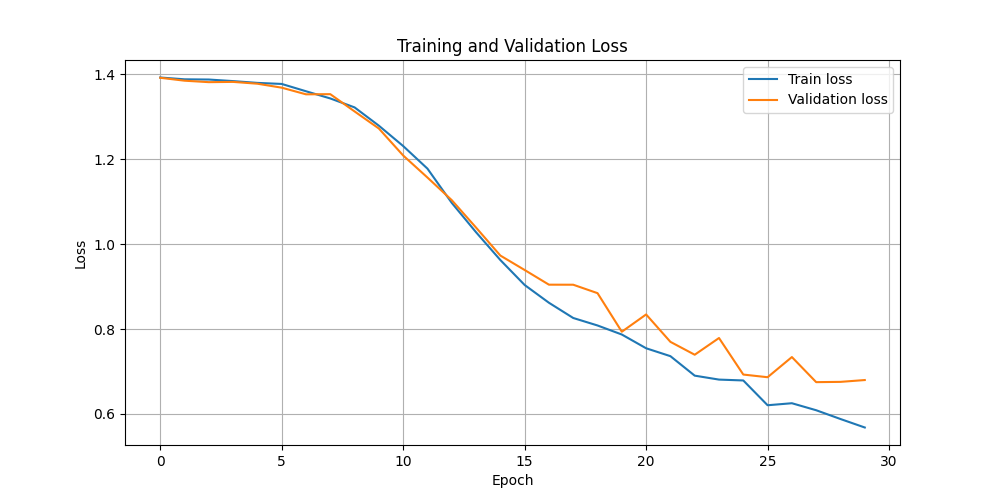
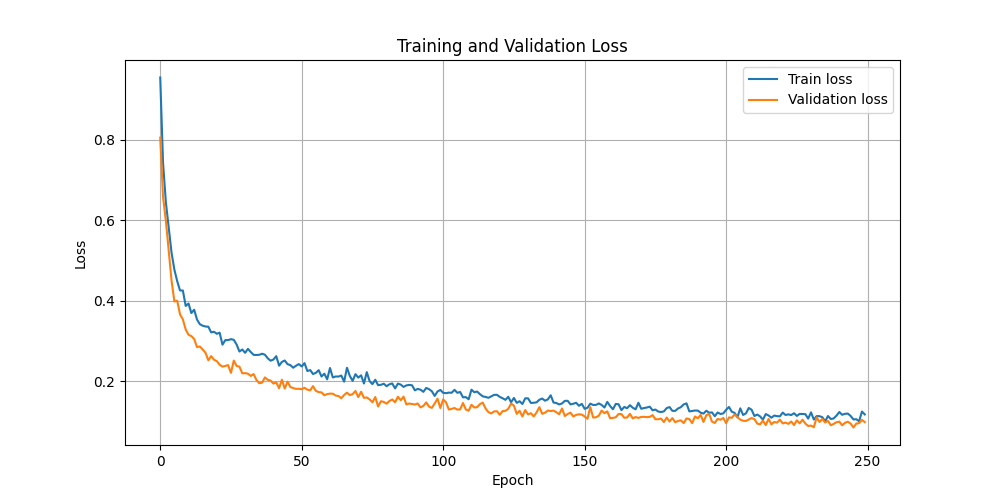
ensamble models completed

diff --git a/final/ensamble_models.py b/final/ensamble_models.py
@@ -4,6 +4,7 @@ from sklearn.metrics import accuracy_score, confusion_matrix
 from sklearn.ensemble import RandomForestClassifier
 from xgboost import XGBClassifier
 import numpy as np
+import time
 
 beed_file_path = 'BEED_Data.csv'
 beed_data = pd.read_csv(beed_file_path)
@@ -11,14 +12,25 @@ beed_data = pd.read_csv(beed_file_path)
 X = beed_data.iloc[:, :-1]
 y = beed_data.iloc[:, -1]
 
-X_temp, X_test, y_temp, y_test = train_test_split(
-    X, y, test_size=0.2, random_state=42, stratify=y
-)
-
-def random_forest_train():
-    global X_temp, y_temp
+def preprocess_data():
+    global X, y
+    X_temp, X_test, y_temp, y_test = train_test_split(
+        X, y, test_size=0.2, random_state=1, stratify=y
+    )
     sss = StratifiedShuffleSplit(n_splits=10, test_size=0.25, random_state=1)
-    model = RandomForestClassifier(n_estimators=100, random_state=1)
+    return sss, X_temp, X_test, y_temp, y_test
+
+def time_decorator(func):
+    def wrapper(*args):
+        start_time = time.perf_counter()
+        func(*args)
+        print(time.perf_counter() - start_time)
+    return wrapper
+
+
+@time_decorator
+def random_forest_train(sss, X_temp, X_test, y_temp, y_test):
+    model = RandomForestClassifier(n_estimators=400, max_depth=None, min_samples_leaf=1, min_samples_split=2, random_state=1)
     
     scores = cross_validate(model, X_temp, y_temp, cv=sss, n_jobs=6, scoring='accuracy')
     np_scores = np.array(scores['test_score'])
@@ -29,11 +41,11 @@ def random_forest_train():
     model.fit(X_temp, y_temp)
     y_pred = model.predict(X_test)
     test_acc = accuracy_score(y_test, y_pred)
+    print(confusion_matrix(y_test, y_pred))
     print(f"Точность на тестовой выборке: {test_acc:.4f}\n")
 
-def gradient_boosting_train():
-    global X_temp, y_temp
-    sss = StratifiedShuffleSplit(n_splits=10, test_size=0.25, random_state=1)
+@time_decorator
+def gradient_boosting_train(sss, X_temp, X_test, y_temp, y_test):
     model = XGBClassifier(n_estimators=100, learning_rate=0.3, max_depth=8, subsample=0.8, random_state=1)
     
     scores = cross_validate(model, X_temp, y_temp, cv=sss, n_jobs=6, scoring='accuracy')
@@ -48,5 +60,7 @@ def gradient_boosting_train():
     print(confusion_matrix(y_test, y_pred))
     print(f"Точность на тестовой выборке: {test_acc:.4f}\n")
 
-random_forest_train()
-gradient_boosting_train()
+if __name__ == "__main__":
+    sss, X_temp, X_test, y_temp, y_test = preprocess_data()
+    random_forest_train(sss, X_temp, X_test, y_temp, y_test)
+    gradient_boosting_train(sss, X_temp, X_test, y_temp, y_test)

diff --git a/final/find_best_parameters.py b/final/find_best_parameters.py
@@ -1,0 +1,57 @@
+from sklearn.model_selection import GridSearchCV, train_test_split
+from sklearn.metrics import accuracy_score
+from xgboost import XGBClassifier
+from sklearn.ensemble import RandomForestClassifier
+from read_info import read_info
+
+def preprocess_data():
+
+    X, y = read_info()
+    X_temp, X_test, y_temp, y_test = train_test_split(
+        X, y, test_size=0.2, random_state=1, stratify=y
+    )
+    return X_temp, X_test, y_temp, y_test
+
+def get_parameters(model, param_grid):
+
+    gs = GridSearchCV(
+        estimator=model,
+        param_grid=param_grid,
+        cv=5,
+        scoring='accuracy',
+        n_jobs=6,
+        verbose=1
+    )
+
+    X_temp, X_test, y_temp, y_test = preprocess_data()
+
+    gs.fit(X_temp, y_temp)
+    
+    final_model = gs.best_estimator_
+    best_params = gs.best_params_
+
+    print(best_params)
+
+    y_pred = final_model.predict(X_test)
+    acc = accuracy_score(y_test, y_pred)
+
+    print(f"Точность лучшей модели на тестовых данных: {acc}")
+    return final_model, best_params
+
+
+rf_param_grid = {
+    'n_estimators': [100, 200, 300, 400, 500],
+    'max_depth': [10, 20, None],
+    'min_samples_split': [2, 5, 10],
+    'min_samples_leaf': [1, 2, 4]
+}
+
+xgb_param_grid = {
+    'n_estimators': [50, 100, 200, 500],
+    'max_depth': [6, 8, 12, 16],
+    'learning_rate':[0.1, 0.2, 0.3, 0.4],
+    'subsample': [0.7, 0.8, 0.9]
+}
+
+rf = get_parameters(RandomForestClassifier(random_state=1), rf_param_grid)
+xgb = xgb_param_grid(XGBClassifier(random_state=1), xgb_param_grid)

diff --git a/neural_networks/beed_network.py b/neural_networks/beed_network.py
@@ -5,7 +5,7 @@ import torch.optim as optim
 from preprocess_data import get_dataloaders
 from draw_loss import draw_loss
 
-PATH = "./models/beed_mlp_2.pth"
+PATH = "./models/beed_mlp.pth"
 
 # class Net(nn.Module):
 #     def __init__(self, input_size=16, num_classes=4):
@@ -20,6 +20,7 @@ PATH = "./models/beed_mlp_2.pth"
 
 #     def forward(self, x):
 #         x = F.gelu(self.bn1(self.fc1(x)))
+#         x = self.dropout(x)
 #         x = F.gelu(self.bn2(self.fc2(x)))
 #         x = self.fc3(x)
 #         return x

diff --git a/final/read_info.py b/final/read_info.py
@@ -1,0 +1,6 @@
+import pandas as pd
+
+def read_info():
+    data = pd.read_csv('BEED_Data.csv')
+    X, y = data.iloc[:,:-1], data.iloc[:,-1]
+    return X, y
